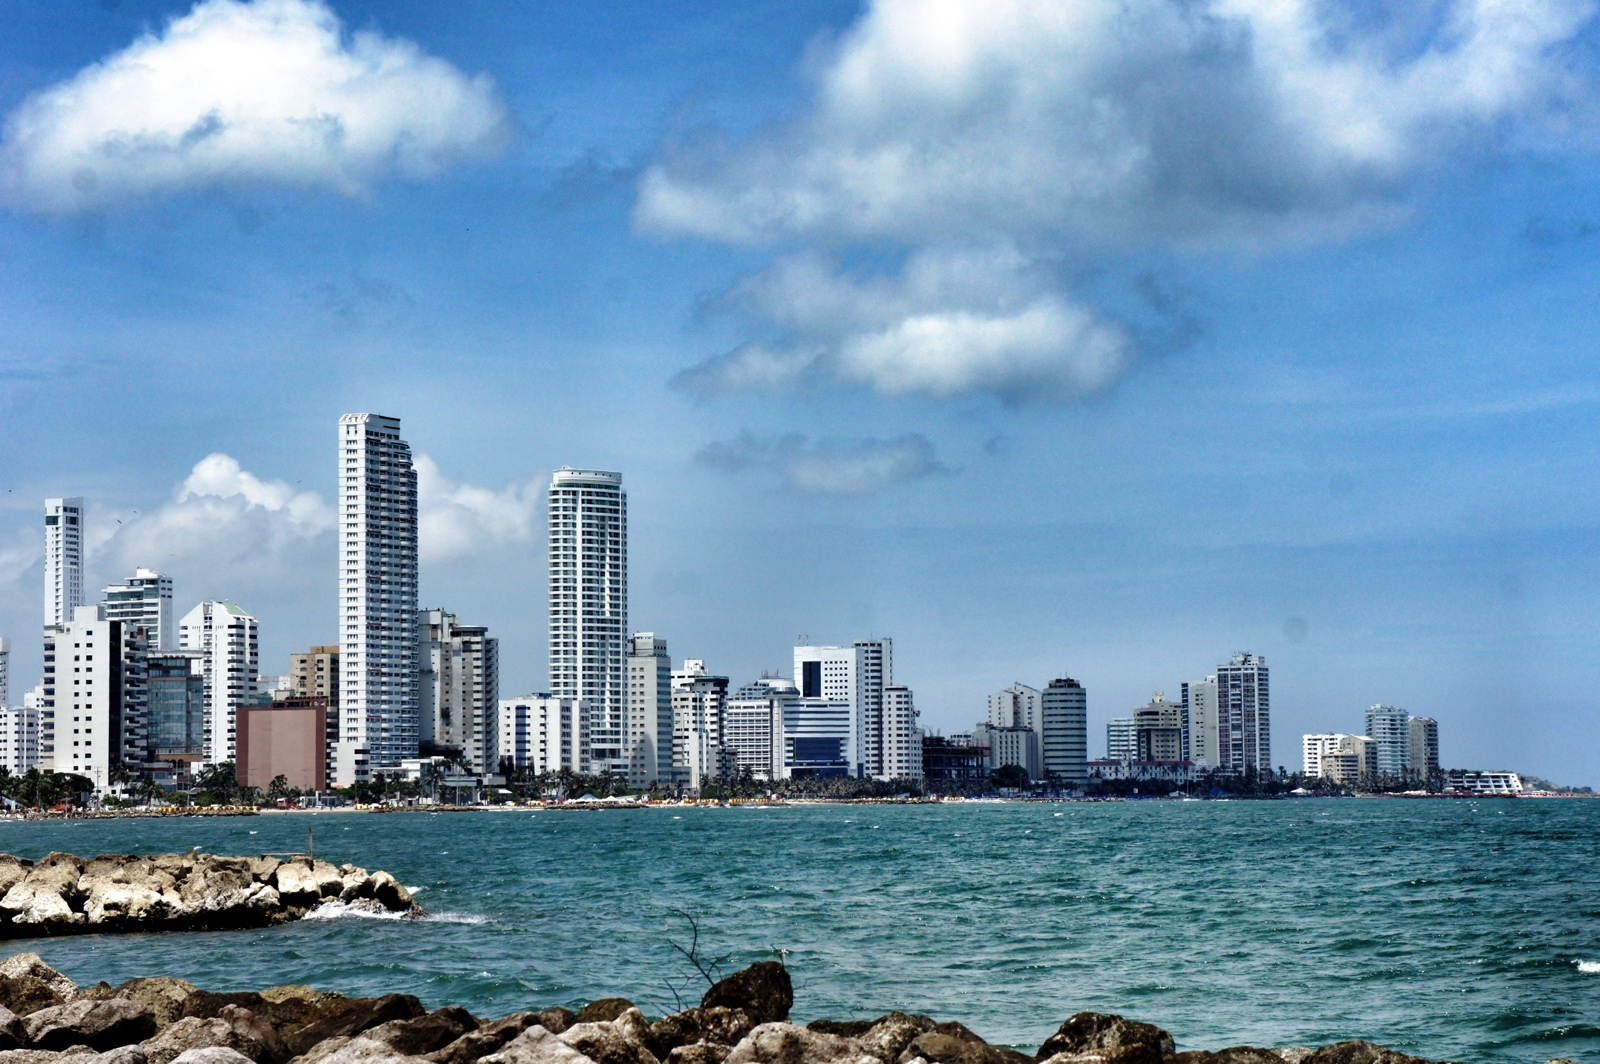
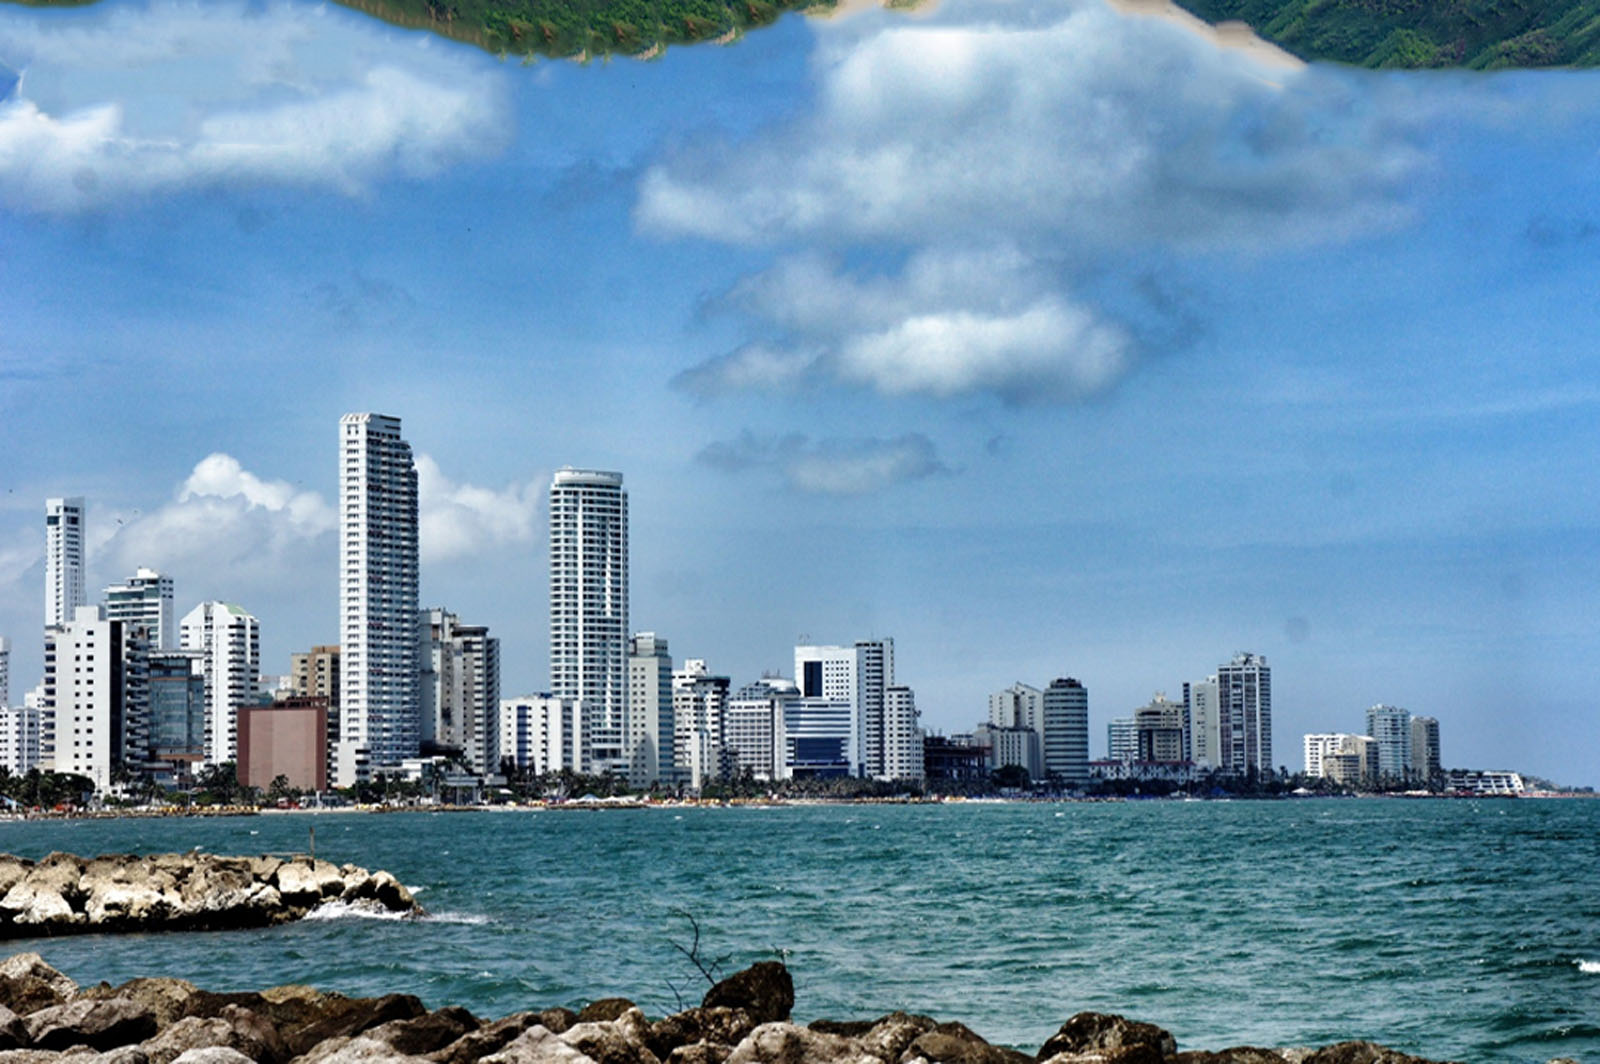
update-mar-3

diff --git a/public/website/assets/css/templatemo-chain-app-dev.css b/public/website/assets/css/templatemo-chain-app-dev.css
@@ -910,7 +910,7 @@ Banner Style
 
 .main-banner1:after {
   content: '';
-  background-image: url(../images/secc1.jpg);
+  background-image: url(../images/a.jpg);
   background-repeat: no-repeat;
   background-size: cover;
   position: absolute;
@@ -981,7 +981,7 @@ Banner 2 Style
 
 .main-banner2:after {
   content: '';
-  background-image: url(../images/chicamocha.jpg);
+  background-image: url(../images/b.jpg);
   background-repeat: no-repeat;
   background-size: cover;
   position: absolute;
@@ -1042,6 +1042,7 @@ Banner 3 Style
 --------------------------------------------- 
 */
 
+
 .main-banner3 {
   background-repeat: no-repeat;
   background-position: center center;
@@ -1053,7 +1054,7 @@ Banner 3 Style
 
 .main-banner3:after {
   content: '';
-  background-image: url(../images/fnd-secc3ok.jpg);
+  background-image: url(../images/c.jpg);
   background-repeat: no-repeat;
   background-size: cover;
   position: absolute;

diff --git a/resources/views/website/index.blade.php b/resources/views/website/index.blade.php
@@ -257,25 +257,23 @@
       </div>
     </div>
   </div>
+
   <!--Final Duplicar seccion 2-->
 
-    <!--Duplicar seccion 3 Pilares Corporativos-->
-    <div class="main-banner3 wow fadeIn" id="seccion2" data-wow-duration="1s" data-wow-delay="0.5s">
+    <!--seccion Pilares Corporativos-->
+    <div class="main-banner2 wow fadeIn" id="seccion2" data-wow-duration="1s" data-wow-delay="0.5s">
       <div class="container">
         <div class="row">
-          <div class="col-lg-12">
-            <div class="row">
-              <div class="col-lg-12">
-                <div class="right-image wow fadeInRight" data-wow-duration="1s" data-wow-delay="0.5s">
-                  <img  src="{!! asset('website/assets/images/pilares.png') !!}" alt="">
-                </div>
+          <div class="col-md-12">
+              <div class="right-image wow fadeInRight" data-wow-duration="1s" data-wow-delay="0.5s">
+                  <img  src="{!! asset('website/assets/images/pilares.png') !!}">
               </div>
-            </div>
           </div>
         </div>
       </div>
     </div>
-    <!--Final Duplicar seccion 3-->
+    <!--Final Duplicar seccion 2-->
+
     <div id="div-servicios">
     <div class="container" >
       <div id="services" class="services section">
